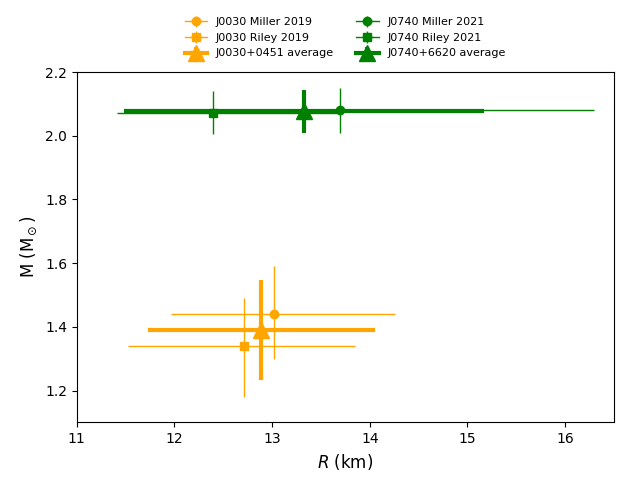
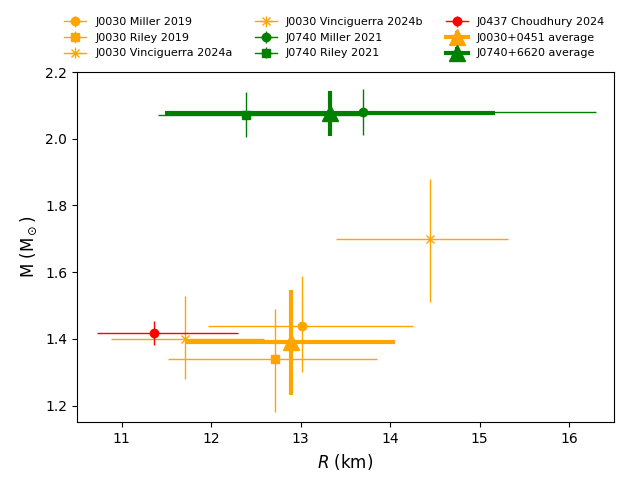
improvements in plotting astro data

diff --git a/version1.0/nucleardatapy/astro/setup_mr.py b/version1.0/nucleardatapy/astro/setup_mr.py
@@ -18,7 +18,7 @@ def mr_sources():
     #
     if nuda.env.verb: print("\nEnter astro_mr()")
     #
-    sources = [ 'J0030+0451', 'J0740+6620' ]
+    sources = [ 'J0030+0451', 'J0740+6620', 'J0437-4715' ]
     #
     #print('sources available in the toolkit:',sources)
     sources_lower = [ item.lower() for item in sources ]
@@ -42,9 +42,11 @@ def mr_obss( source ):
     if nuda.env.verb: print("\nEnter astro_mr_source()")
     #
     if source.lower()=='j0030+0451':
-        obss = [ 1, 2 ]
+        obss = [ 1, 2, 3, 4 ]
     elif source.lower()=='j0740+6620':
         obss = [ 1, 2 ]
+    elif source.lower()=='j0437-4715':
+        obss = [ 1 ]
     #
     #print('Observations available in the toolkit:',obss)
     #
@@ -113,6 +115,22 @@ class setupMR():
                 #: Attribute providing additional notes about the observation.
                 self.note = "write notes about this observation."
                 self.marker = 's'
+            elif obs==3:
+                #: Attribute providing the full reference to the paper to be citted.
+                self.ref='S. Vinciguerra, T. Salmi, A.L. Watts, D. Choudhury, et al., ApJ 961, 62 (2024).'
+                #: Attribute providing the label the data is references for figures.
+                self.label = 'J0030 Vinciguerra 2024a'
+                #: Attribute providing additional notes about the observation.
+                self.note = "write notes about this observation."
+                self.marker = 'x'
+            elif obs==4:
+                #: Attribute providing the full reference to the paper to be citted.
+                self.ref='S. Vinciguerra, T. Salmi, A.L. Watts, D. Choudhury, et al., ApJ 961, 62 (2024).'
+                #: Attribute providing the label the data is references for figures.
+                self.label = 'J0030 Vinciguerra 2024b'
+                #: Attribute providing additional notes about the observation.
+                self.note = "write notes about this observation."
+                self.marker = 'x'
         elif source.lower()=='j0740+6620':
             file_in = nuda.param.path_data+'astro/NICER/J0740+6620.dat'
             if obs==1:
@@ -131,6 +149,16 @@ class setupMR():
                 #: Attribute providing additional notes about the observation.
                 self.note = "write notes about this observation."
                 self.marker = 's'
+        elif source.lower()=='j0437-4715':
+            file_in = nuda.param.path_data+'astro/NICER/J0437-4715.dat'
+            if obs==1:
+                #: Attribute providing the full reference to the paper to be citted.
+                self.ref='D. Choudhury, T. Salmi, S. Vinciguerra, T.E. Riley, et al., ApJL 971, L20 (2024).'
+                #: Attribute providing the label the data is references for figures.
+                self.label = 'J0437 Choudhury 2024'
+                #: Attribute providing additional notes about the observation.
+                self.note = "write notes about this observation."
+                self.marker = 'o'
         #
         #: Attribute the observational mass of the source.
         self.mass = None
@@ -246,7 +274,7 @@ class setupMRAverage():
 
     **Attributes:**
     """
-    def __init__(self, source = 'J1614–2230' ):
+    def __init__(self, source = 'J1614–2230', obss = [ 1, 2 ] ):
         #
         if nuda.env.verb: print("Enter SetupAstroMRAverage()")
         #
@@ -256,7 +284,7 @@ class setupMRAverage():
         self.label = source+' average'
         self.note = 'compute the centroid and standard deviation over several obs. data.'
         #
-        obss = mr_obss( source = source )
+        #obss = mr_obss( source = source )
         #
         # search for the boundary for the masses and the radii:
         mmin = 3.0; mmax = 0.0;

diff --git a/version1.0/nucleardatapy_samples/plots/plot_astro_setupMR.py b/version1.0/nucleardatapy_samples/plots/plot_astro_setupMR.py
@@ -10,7 +10,7 @@ import matplotlib.pyplot as plt
 
 import nucleardatapy as nuda
 
-def plot_astro_setupMR( pname, sources ):
+def plot_astro_setupMR( pname, sources, sources_av ):
     #
     # plot Mass versus Radius
     #
@@ -20,8 +20,8 @@ def plot_astro_setupMR( pname, sources ):
     #
     axs.set_xlabel(r'$R$ (km)',fontsize='12')
     axs.set_ylabel(r'M (M$_\odot$)',fontsize='12')
-    axs.set_xlim([11, 16.5])
-    axs.set_ylim([1.1, 2.2])
+    axs.set_xlim([10.5, 16.5])
+    axs.set_ylim([1.15, 2.2])
     #
     isource = 1
     xlabel = []
@@ -40,17 +40,28 @@ def plot_astro_setupMR( pname, sources ):
             mr = nuda.astro.setupMR( source = source, obs = obs )
             if nuda.env.verb_output: mr.print_output( )
             if nuda.env.verb_table: mr.print_table( )
-            axs.errorbar( mr.rad, mr.mass, xerr=np.array([(mr.rad_sig_do,mr.rad_sig_up)]).T, yerr=np.array([(mr.mass_sig_do,mr.mass_sig_up)]).T, label=mr.label, color=nuda.param.col[isource], marker=mr.marker, linestyle = 'solid', linewidth = 1 )
+            if source.lower() == 'j0030+0451' and obs == 3:
+                axs.errorbar( mr.rad, mr.mass, xerr=np.array([(mr.rad_sig_do,mr.rad_sig_up)]).T, yerr=np.array([(mr.mass_sig_do,mr.mass_sig_up)]).T, label=mr.label, color=nuda.param.col[isource], marker=mr.marker, linewidth = 1 )
+            elif source.lower() == 'j0030+0451' and obs == 4:
+                axs.errorbar( mr.rad, mr.mass, xerr=np.array([(mr.rad_sig_do,mr.rad_sig_up)]).T, yerr=np.array([(mr.mass_sig_do,mr.mass_sig_up)]).T, label=mr.label, color=nuda.param.col[isource], marker=mr.marker, linewidth = 1 )
+            else:
+                axs.errorbar( mr.rad, mr.mass, xerr=np.array([(mr.rad_sig_do,mr.rad_sig_up)]).T, yerr=np.array([(mr.mass_sig_do,mr.mass_sig_up)]).T, label=mr.label, color=nuda.param.col[isource], marker=mr.marker, linewidth = 1 )
             iobs += 1
             #
-        mrav = nuda.astro.setupMRAverage( source = source )
+        isource += 1
+        #
+    isource = 1
+    for source in sources_av:
+        if source.lower() == 'j0030+0451': obss = [ 1, 2 ]
+        if source.lower() == 'j0740+6620': obss = [ 1, 2 ]
+        mrav = nuda.astro.setupMRAverage( source = source, obss = obss )
         if nuda.env.verb_output: mrav.print_output( )
         if nuda.env.verb_table: mrav.print_table( )
         axs.errorbar( mrav.rad_cen, mrav.mass_cen, xerr=mrav.rad_sig_std, yerr=mrav.mass_sig_std, ms=12, label=mrav.label, color=nuda.param.col[isource], marker='^', linestyle = 'solid', linewidth = 3 )
         isource += 1
     #
     #axs.legend(loc='upper left',fontsize='8', ncol=2)
-    axs.legend(loc='lower center',bbox_to_anchor=(0.5,1.01),columnspacing=2,fontsize='8', ncol=2,frameon=False)
+    axs.legend(loc='lower center',bbox_to_anchor=(0.48,1.01),columnspacing=2,fontsize='8',ncol=3,frameon=False)
     #
     plt.savefig(pname)
     plt.close()
@@ -69,12 +80,13 @@ def main():
     sources, sources_lower = nuda.astro.mr_sources( )
     print('Complete list of available sources:',sources)
     #
-    sources = [ 'J0030+0451', 'J0740+6620' ]
+    sources = [ 'J0030+0451', 'J0740+6620', 'J0437-4715' ]
+    sources_av = [ 'J0030+0451', 'J0740+6620' ]
     #
     print('sources considered:',sources)
     #
     pname = 'figs/plot_astro_setupMR.png'
-    plot_astro_setupMR( pname, sources )
+    plot_astro_setupMR( pname, sources, sources_av )
     #
     print(50*'-')
     print("Exit plot_astro_setupMR.py:")

diff --git a/version1.0/nucleardatapy_samples/samples/sample_astro_setupMR.py b/version1.0/nucleardatapy_samples/samples/sample_astro_setupMR.py
@@ -3,9 +3,6 @@ import os
 import sys
 import numpy as np
 
-#nucleardatapy_tk = os.getenv('NUCLEARDATAPY_TK')
-#sys.path.insert(0, nucleardatapy_tk)
-
 import nucleardatapy as nuda
 
 def main():
@@ -17,7 +14,7 @@ def main():
     sources, sources_lower = nuda.astro.mr_sources( )
     print('Complete list of available sources:', sources )
     #
-    sources = [ 'J0030+0451', 'J0740+6620' ]
+    sources = [ 'J0030+0451', 'J0740+6620', 'J0437-4715' ]
     #
     print('sources considered:',sources)
     #
@@ -33,9 +30,21 @@ def main():
             if nuda.env.verb_output: mr.print_output( )
             if nuda.env.verb_table: mr.print_table( )
             #
+    #
+    # Average
+    #
+    sources_av = [ 'J0030+0451', 'J0740+6620' ]
+    #
+    for source in sources_av:
+        #
+        # get the mass associated to `source` and `obs`
+        #
+        obss = nuda.astro.mr_obss( source = source )
+        print(f'source: {source}, obss: {obss}')
         mrav = nuda.astro.setupMRAverage( source = source )
         if nuda.env.verb_output: mrav.print_output( )
         if nuda.env.verb_table: mrav.print_table( )
+        #
     #
     print(50*'-')
     print("Exit sample_astro_setupMR.py:")
